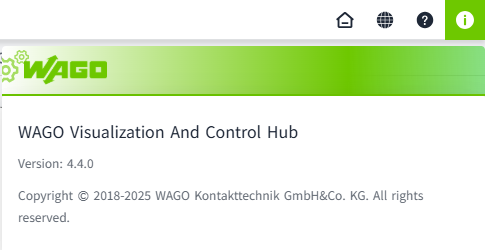
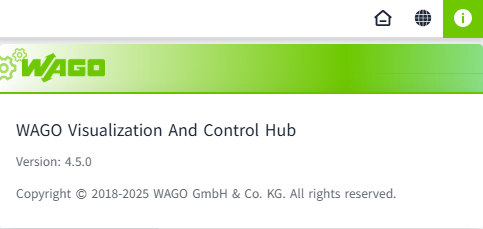
1

diff --git a/docs/2d-visualization/editor-introduction.md b/docs/2d-visualization/editor-introduction.md
@@ -123,15 +123,8 @@ The language switch menu is used to switch between different language interfaces
 
 ![alt text](62.png)
 
-##  **Help Menu**
-
-View the help documentation in a new browser window.
-
-![alt text](63.png)
-
 ## **About Menu**
 
 Provides information about VC Hub, e.g. versions, copyrights, etc.
 
 ![alt text](64.png)
-
